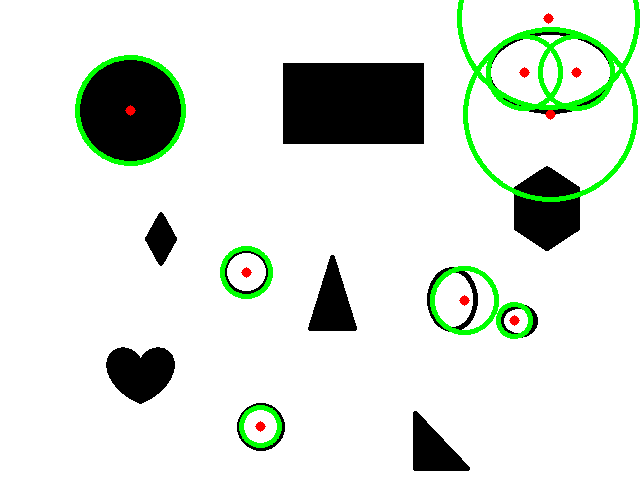
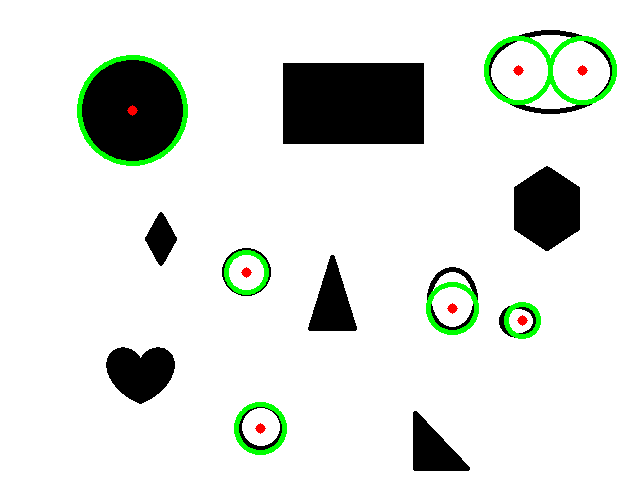
feat: add lesson 30 and 31

diff --git a/29/29.py b/29/29.py
@@ -1,11 +1,17 @@
 
 import cv2 as cv
 import numpy as np
+from pathlib import Path # adaptacao dos caminhos no mac
 
-caminho = 'C:/enviroment/learningOpenCV/29/formasGeometricas.png'
-imagemOriginal = cv.imread(caminho)
+pasta_atual = Path(__file__).parent
+caminho_imagem = pasta_atual / "formasGeometricas.png"
+imagemOriginal = cv.imread(str(caminho_imagem))
+
 imagemCinza = cv.cvtColor(imagemOriginal, cv.COLOR_BGR2GRAY)
-imagemSuavizada = cv.GaussianBlur(imagemCinza, (9, 9), 2)#evita ruídos
+imagemSuavizada = cv.GaussianBlur(imagemCinza, (3, 3), 2)#evita ruídos pq houg [e] sensivel a [pixels serrilhados
+#quando eu tentei com o kernel 9x9 mais de um circulo foi detectado na regiao de apenas um circulo
+#ja com com sigma em 0 um circulo que tinha um formato de elipse nem foi detectado
+
 circulos = cv.HoughCircles(imagemSuavizada,cv.HOUGH_GRADIENT,
     dp=1,
     minDist=50,
@@ -14,22 +20,23 @@ circulos = cv.HoughCircles(imagemSuavizada,cv.HOUGH_GRADIENT,
     minRadius=10,
     maxRadius=200
 )
-imagemResultado = imagemOriginal.copy()
+imagemResultado = imagemOriginal.copy()#sobrepoe os desenhoss de resultado na img original
 
-if circulos is not None:
+if circulos is not None: #se houverem circulos, faca
     circulos = np.uint16(np.around(circulos))
     print(f"total de círculos detectados: {len(circulos[0])}")
-    for c in circulos[0, :]:
-        centro = (c[0], c[1])
-        raio = c[2]
-        cv.circle(imagemResultado, centro, raio, (0, 255, 0), 3)
+    for c in circulos[0, :]:#tipo uma matriz x , y, raio
+        centro = (c[0], c[1]) #x, y
+        raio = c[2]#tamanho do raio
+        cv.circle(imagemResultado, centro, raio, (0, 255, 0), 3) 
         cv.circle(imagemResultado, centro, 2, (0, 0, 255), 5)
 else:
-    print("nenhum círculo encontrado! Ajuste o param2.")
+    print("nenhum círculo encontrado")
 
 cv.imshow('original', imagemOriginal)
 cv.imshow('Hough (circulos detectados)', imagemResultado)
-cv.imwrite('C:/enviroment/learningOpenCV/29/imagemGerada.png', imagemResultado)
+caminho_saida = pasta_atual / "imagemGerada.png"
+cv.imwrite(str(caminho_saida), imagemResultado)
 
 cv.waitKey(0)
 cv.destroyAllWindows()

diff --git a/31/31.py b/31/31.py
@@ -9,7 +9,6 @@ imagemCinza = cv.cvtColor(imagemOriginal, cv.COLOR_BGR2GRAY)
 imagemSuavizada = cv.GaussianBlur(imagemCinza, (5, 5), 0)
 bordasCanny = cv.Canny(imagemSuavizada, 40, 100)
 
-
 contornos, hierarquia = cv.findContours(
     bordasCanny, 
     cv.RETR_EXTERNAL, #detecta apenas as bordas externas (1 contorno por objeto)
